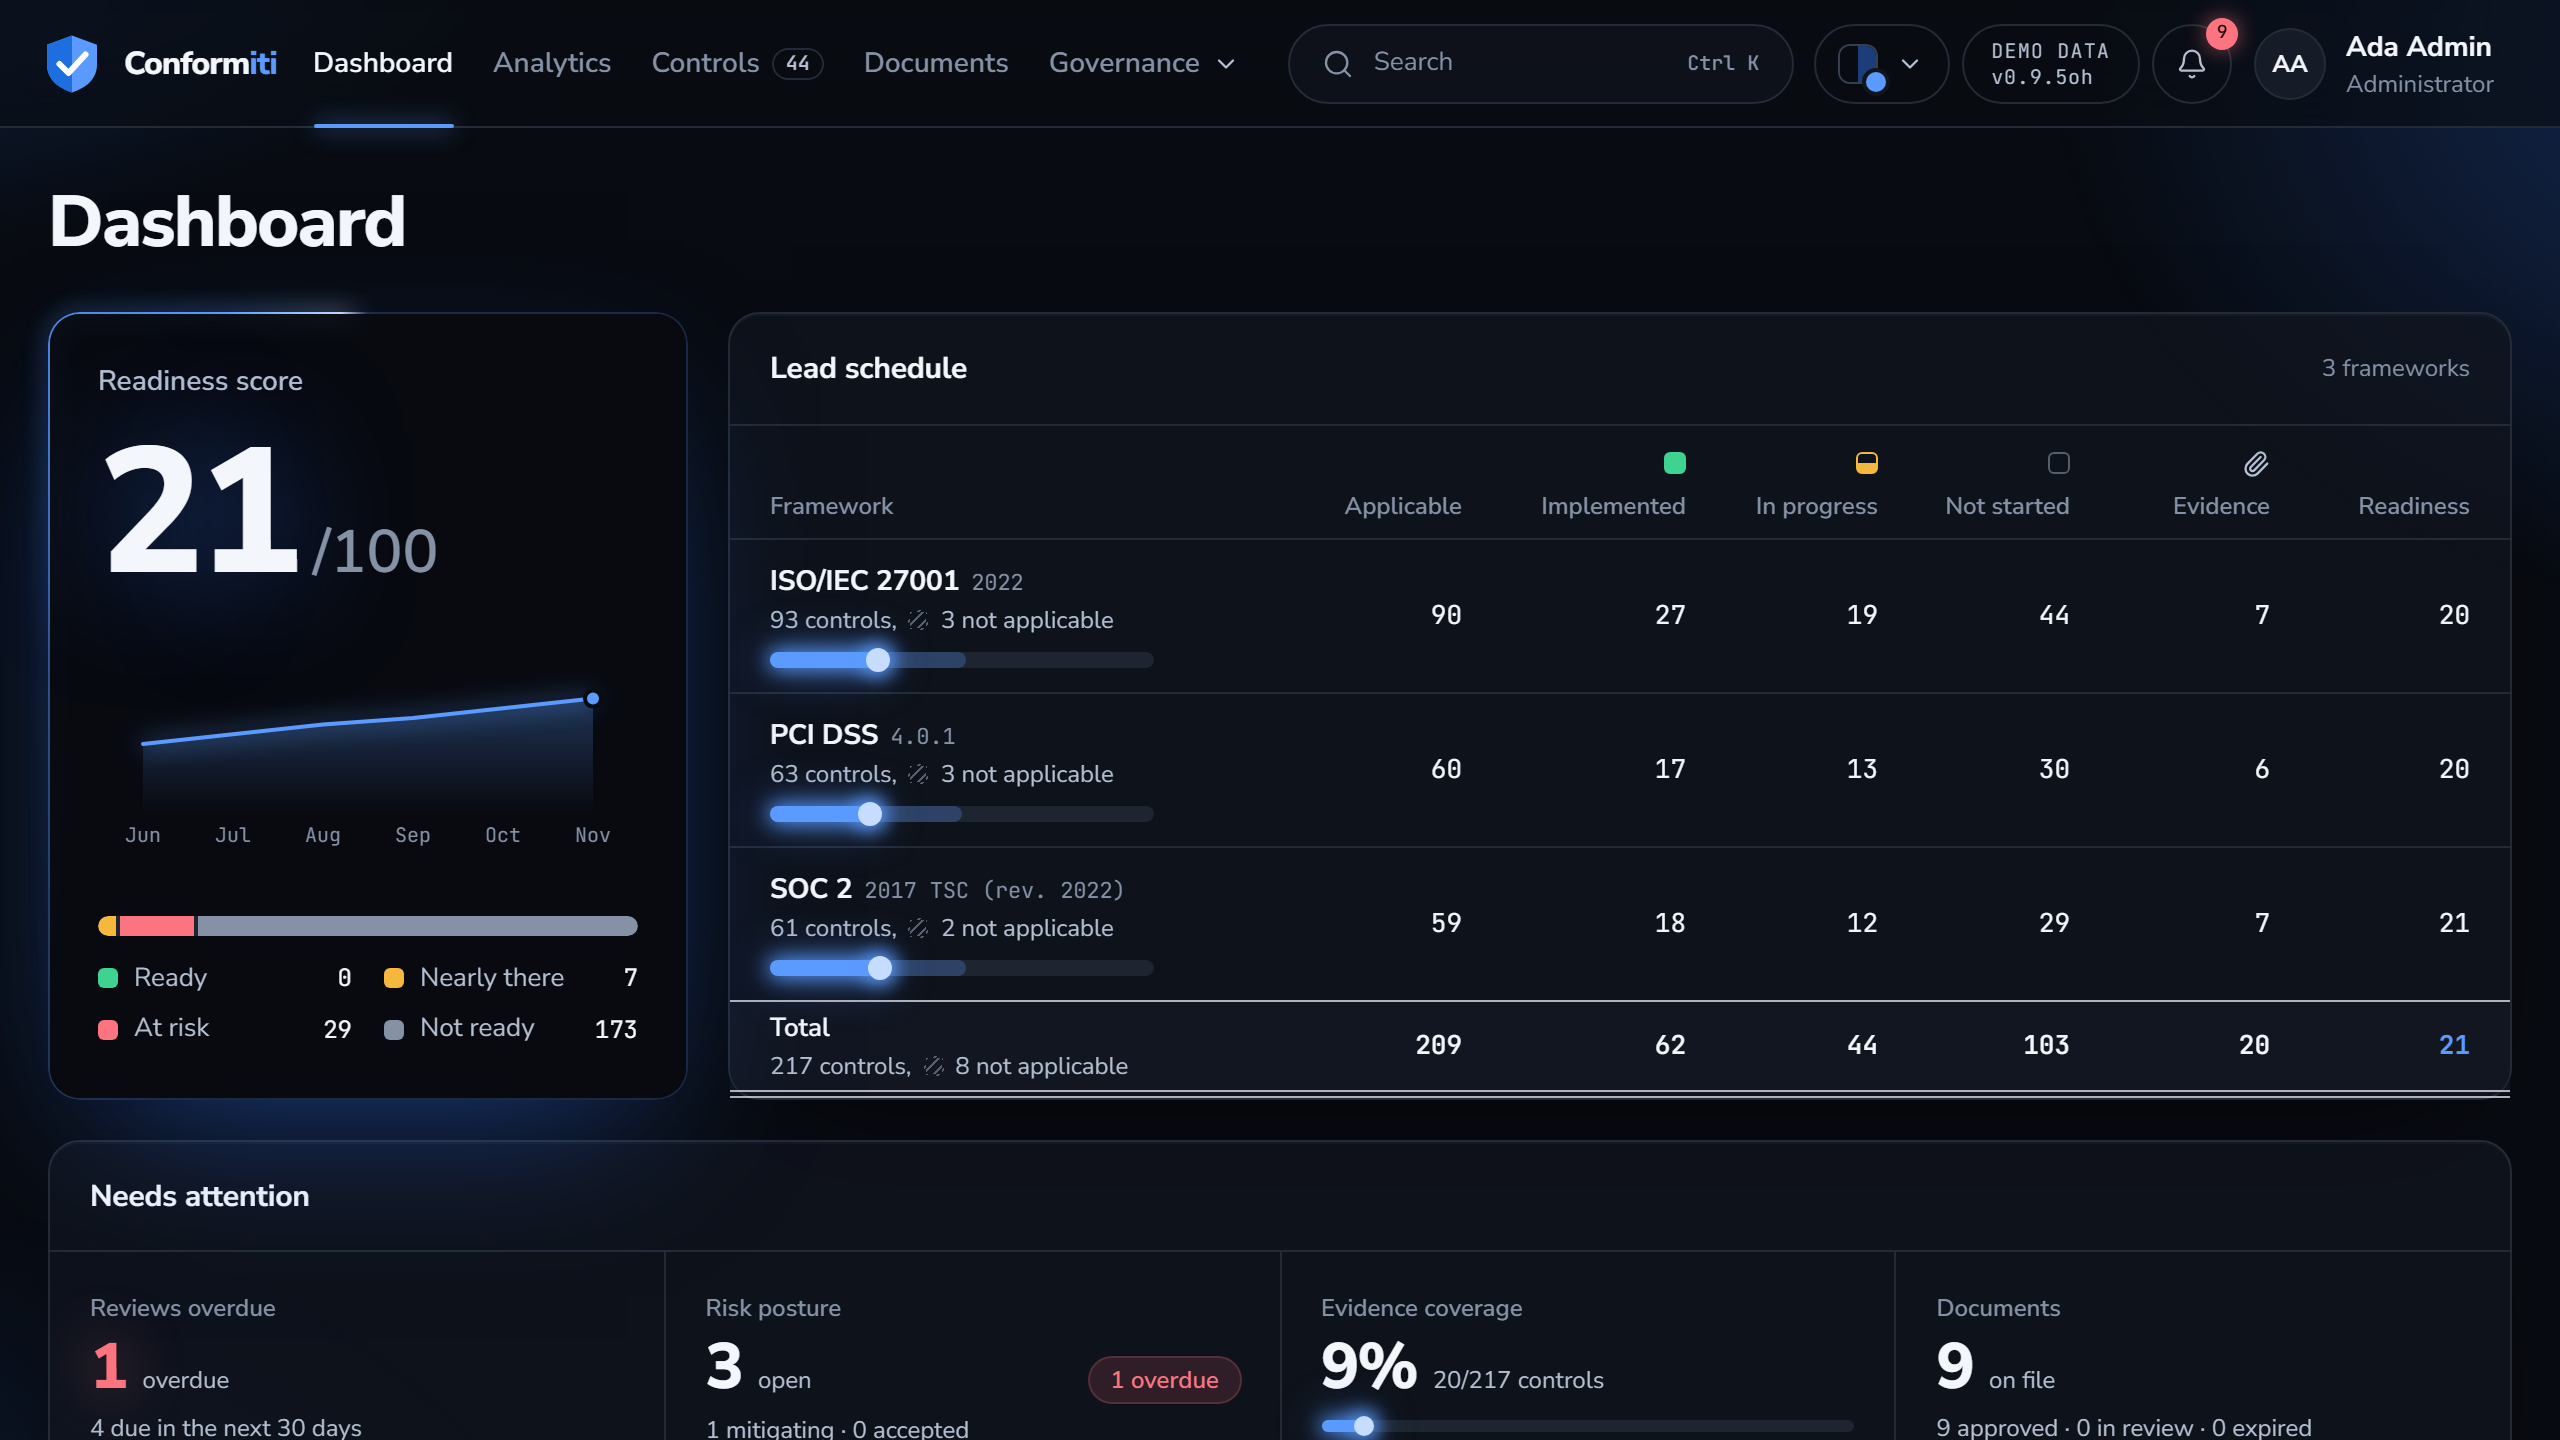
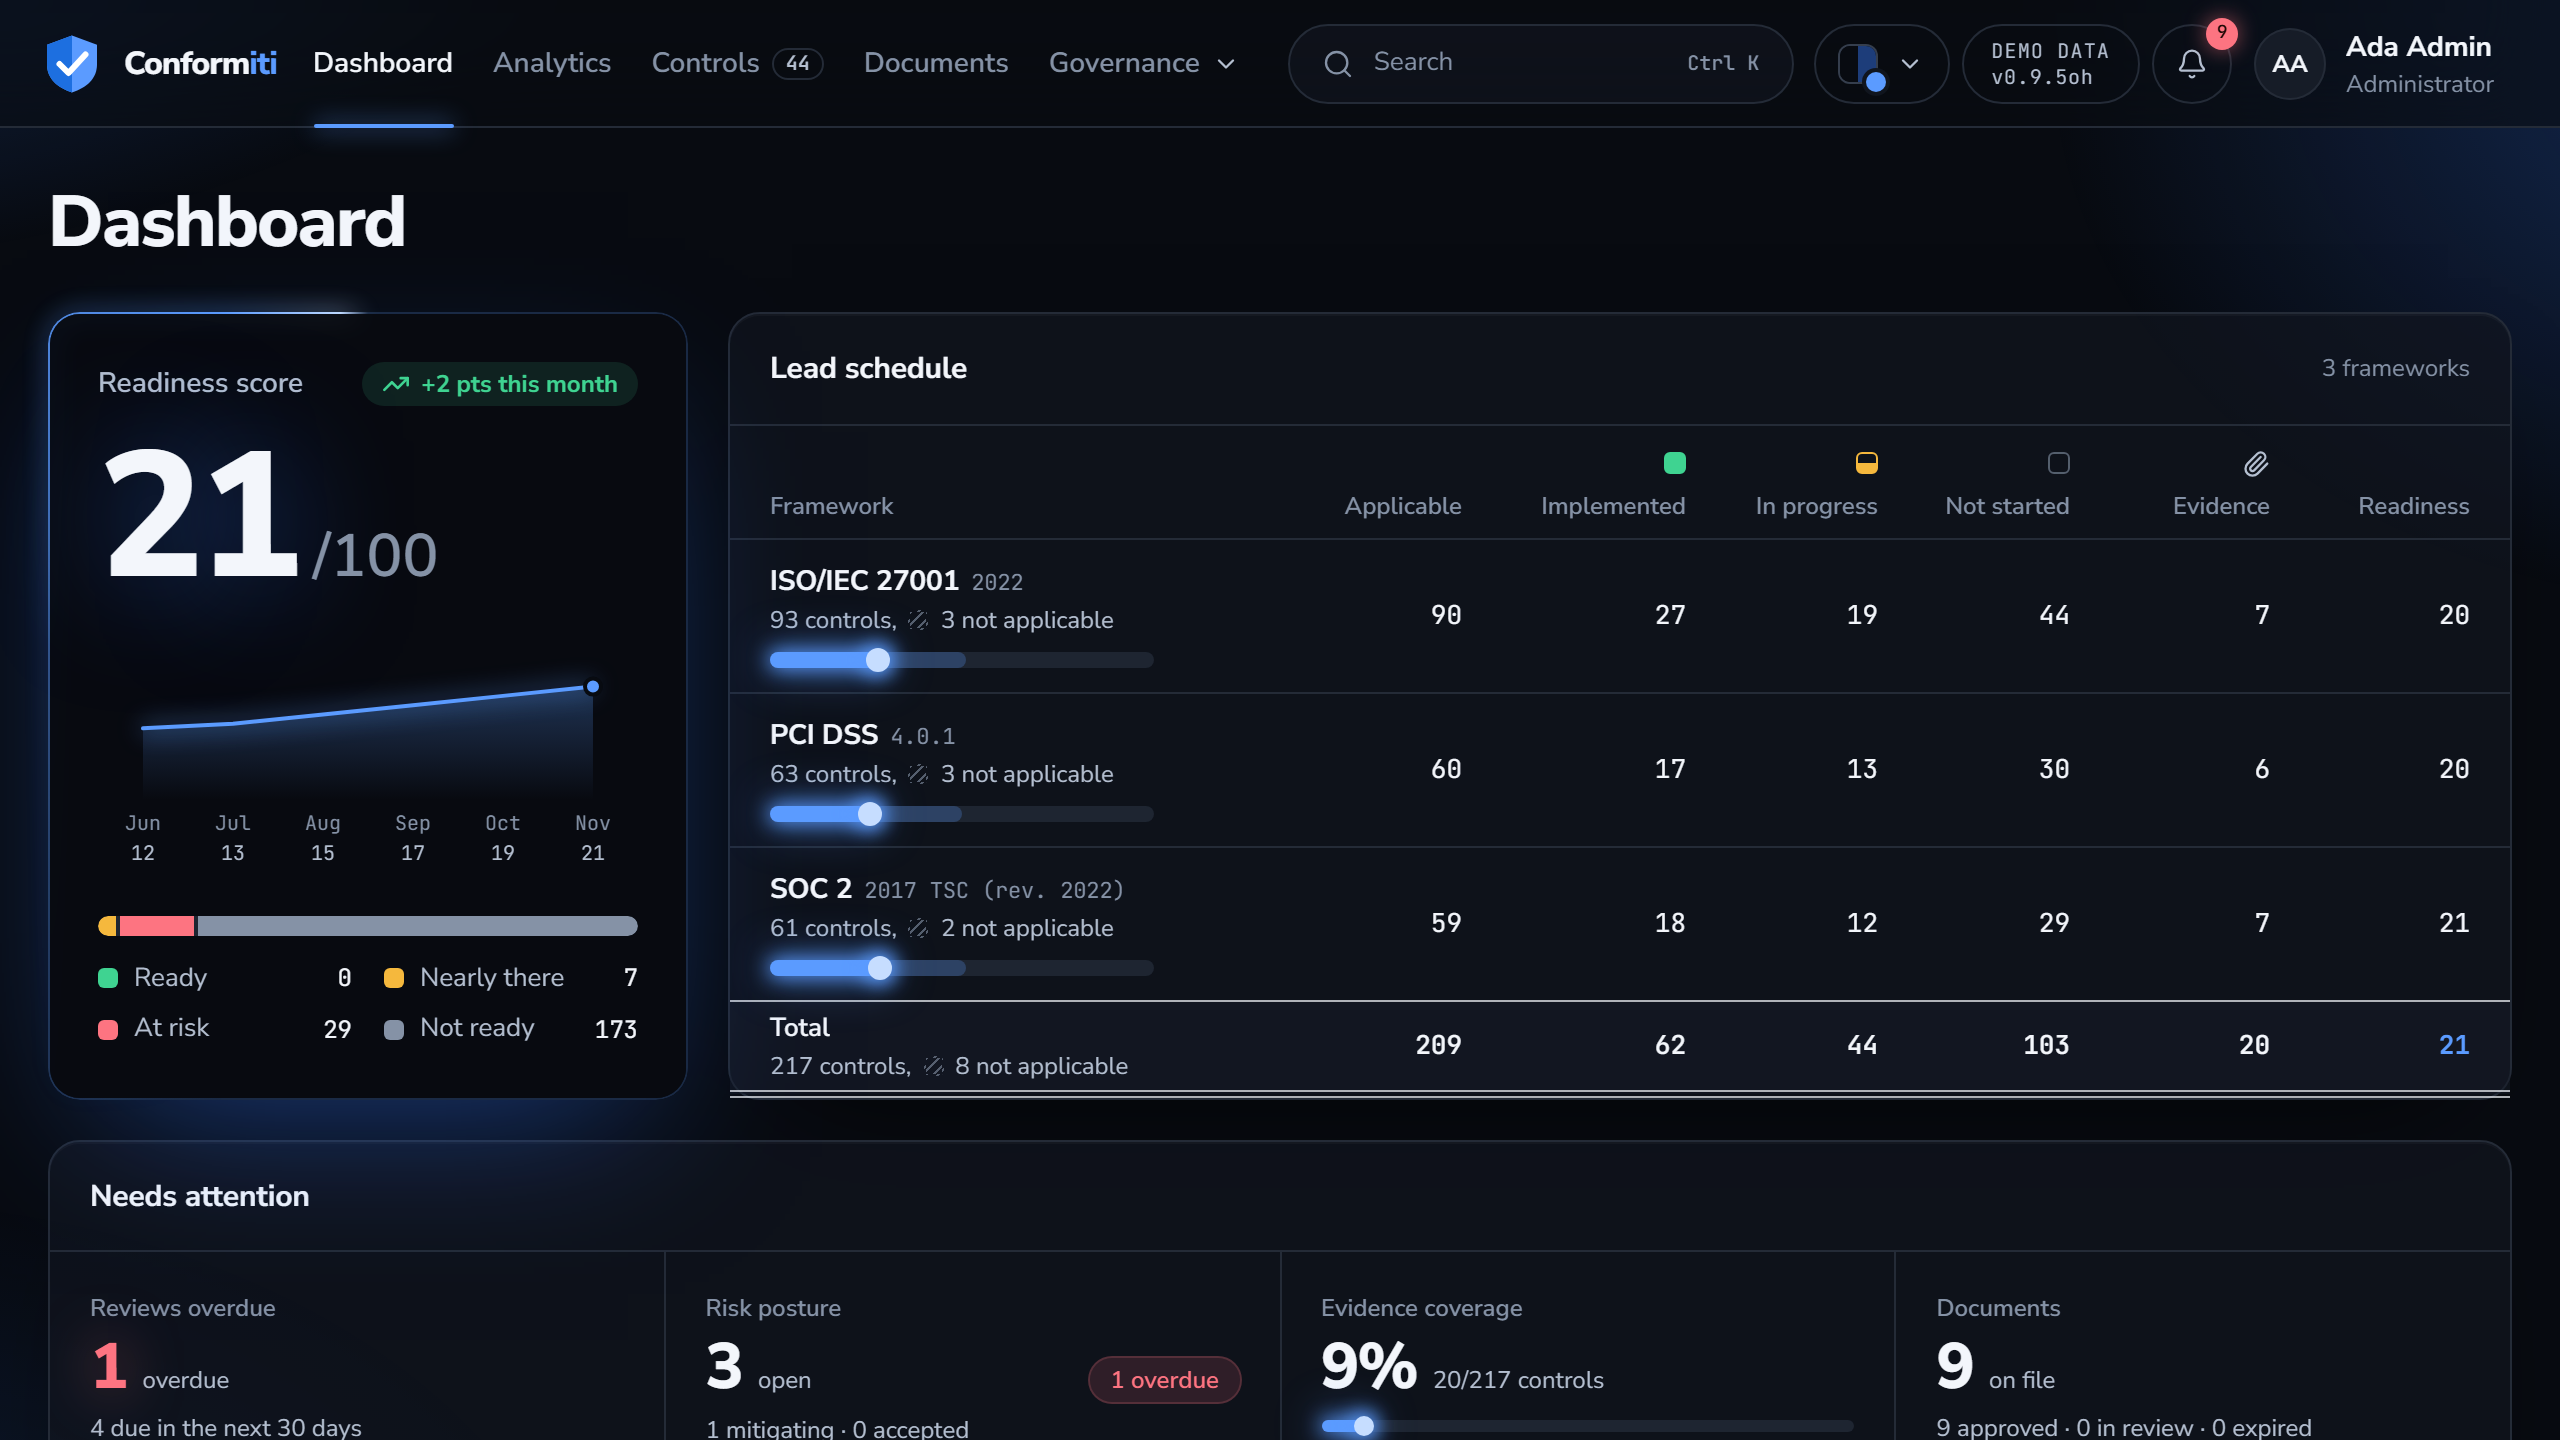
Plot the readiness trend in the figure the card shows
While fewer than two months had stored a score, the trend drew the share of
controls marked implemented under a score out of 100, with nothing on screen
to say so, and the demo back-filled its five months without a score, so the
demo always showed the other measure. The line now plots the card's own
figure from the months that recorded it, shows "No history yet" until there
are two, and prints each month's figure under its name. The demo back-fills
its months with a score. Part of 0.9.5oh; the README dashboard picture is
retaken.

diff --git a/frontend/src/components/charts/TrendLine.jsx b/frontend/src/components/charts/TrendLine.jsx
@@ -7,8 +7,9 @@ import { toneVar } from "../../utils/tone.js";
 const FIRST_WIDTH = 320;
 
 /** points: [{label, value}]. The graphic is drawn in the pixels it occupies, so a dot stays round, and each label
- * sits in the same column as its dot. The spoken name always carries the values. */
-export function TrendLine({ points, tone = "accent", height = 96, className, ariaLabel }) {
+ * sits in the same column as its dot. The spoken name always carries the values; showValues also prints each one,
+ * with its unit, under its label. */
+export function TrendLine({ points, tone = "accent", height = 96, className, ariaLabel, showValues = false, unit = "" }) {
   const fillId = `trend-fill-${useId().replace(/:/g, "")}`;
   const box = useRef(null);
   const [w, setW] = useState(FIRST_WIDTH);
@@ -17,7 +18,7 @@ export function TrendLine({ points, tone = "accent", height = 96, className, ari
   const pts = points && points.length ? points : [];
   const max = Math.max(...pts.map((p) => p.value), 1) * 1.15;
   const cell = w / (pts.length || 1);
-  const spoken = [ariaLabel, pts.map((p) => `${p.label} ${p.value}`).join(", ")].filter(Boolean).join(": ") || "No data";
+  const spoken = [ariaLabel, pts.map((p) => `${p.label} ${p.value}${unit}`).join(", ")].filter(Boolean).join(": ") || "No data";
 
   useLayoutEffect(() => {
     const el = box.current;
@@ -93,6 +94,7 @@ export function TrendLine({ points, tone = "accent", height = 96, className, ari
         {pts.map((p, i) => (
           <span key={`${p.label}-${i}`} className="whitespace-nowrap text-center font-mono text-[10px] text-faint">
             {p.label}
+            {showValues ? <span className="tabular block text-muted">{`${p.value}${unit}`}</span> : null}
           </span>
         ))}
       </div>

diff --git a/frontend/src/pages/Dashboard.jsx b/frontend/src/pages/Dashboard.jsx
@@ -86,13 +86,14 @@ export default function Dashboard({ me }) {
   }, [controls]);
   const scored = readiness?.score !== null && readiness?.score !== undefined;
   const hero = scored ? readiness.score : readiness?.pct;
+  // The line plots the figure the card shows, from the months that recorded it: a month saved before scores were
+  // stored is left out, never drawn in the other measure.
   const trendPoints = useMemo(() => {
-    const points = readiness?.trend || [];
-    const withScore = points.filter((p) => p.score !== null && p.score !== undefined);
-    return withScore.length >= 2
-      ? withScore.map((p) => ({ label: p.label, value: p.score }))
-      : points.map((p) => ({ label: p.label, value: p.pct }));
-  }, [readiness]);
+    const key = scored ? "score" : "pct";
+    return (readiness?.trend || [])
+      .filter((p) => p[key] !== null && p[key] !== undefined)
+      .map((p) => ({ label: p.label, value: p[key] }));
+  }, [readiness, scored]);
   const delta = scored ? readiness?.score_delta_pts : readiness?.delta_pts;
   const deltaBadge = delta != null ? monthDelta(delta) : null;
   const bandSegments = useMemo(() => {
@@ -161,6 +162,8 @@ export default function Dashboard({ me }) {
                       <TrendLine
                         points={trendPoints}
                         height={72}
+                        showValues
+                        unit={scored ? "" : "%"}
                         ariaLabel={`Readiness trend over the last ${trendPoints.length} months`}
                       />
                     ) : (

diff --git a/backend/accounts/management/commands/bootstrap_demo.py b/backend/accounts/management/commands/bootstrap_demo.py
@@ -1013,9 +1013,10 @@ class Command(BaseCommand):
                 detail=f"Rows the demo seed created (remove_demo_data deletes these): {', '.join(map(str, pks))}")
 
     def _history(self):
-        """Record today's readiness point and, on a first seed, back-fill five monthly ones. Never into a trend that has
-        a point before today or a workspace the demo was retired from: remove_demo_data could not reach months dated
-        before a revival, and invented months would stay in real history."""
+        """Record today's readiness point and, on a first seed, back-fill five monthly ones, each with a score: the
+        dashboard's trend plots only months that stored one. Never into a trend that has a point before today or a
+        workspace the demo was retired from: remove_demo_data could not reach months dated before a revival, and
+        invented months would stay in real history."""
         from dateutil.relativedelta import relativedelta
 
         from analytics.models import ReadinessSnapshot
@@ -1042,6 +1043,7 @@ class Command(BaseCommand):
                 with_evidence=int(round(now.with_evidence * factor)),
                 evidence_links=int(round(now.evidence_links * factor)),
                 documents_overdue=0, risks_open=now.risks_open,
+                score=None if now.score is None else int(round(now.score * factor)),
             ))
             made += 1
         self.stdout.write(f"  Readiness history: {made} monthly points + today ({now.pct}%)")

diff --git a/backend/accounts/tests_demo.py b/backend/accounts/tests_demo.py
@@ -212,6 +212,16 @@ class DemoRetirementTests(TestCase):
         self.assertNotIn("will be", out)
         self.assertNotIn("would", out)
 
+    def test_the_back_filled_months_carry_a_score(self):
+        """The dashboard's trend plots only months that stored a score, so the demo's five back-filled months need one
+        (rising to today's) or its trend would show no history."""
+        from analytics.snapshots import trend
+
+        scores = [p["score"] for p in trend()["points"]]
+        self.assertEqual(len(scores), 6)
+        self.assertNotIn(None, scores)
+        self.assertEqual(scores, sorted(scores))
+
     @staticmethod
     def statuses():
         from collections import Counter

diff --git a/CHANGELOG.md b/CHANGELOG.md
@@ -20,6 +20,9 @@ The interface takes the Conformiti theme: the product is lit from behind, its pa
 - **Conformiti** (dark) is the new default theme pack, with **Conformiti Light** beside it. A pack chosen before stays chosen: Audit Ledger, Nimbus, Ledger Dark and Obsidian are still offered and still flat.
 - The typefaces are Nunito Sans and JetBrains Mono, bundled with the app in `frontend/src/styles/fonts` with their OFL-1.1 licences. The installation serves them itself: nothing is fetched from a third party, and the shipped CSP (`font-src 'self'`) is unchanged.
 
+**Fixed.**
+- The dashboard's readiness trend could plot a different figure from the score above it: while fewer than two months had stored a score it drew the share of applicable controls marked implemented, with nothing on screen to say so, and the demo's five back-filled months had no score. The trend now plots the card's own figure from the months that recorded it, shows *No history yet* until there are two, and prints each month's figure under its name. The demo back-fills its months with a score; a history saved before scores were stored starts at its first month with one.
+
 **Changed.**
 - Two theme packs, Conformiti and Conformiti Light. Soft light in the accent colour comes in from the edges of the window behind translucent panels. The readiness card, the selected audit package and the sign-in card have a lit edge with light running round it; progress lines glow where they are filled and grow in when a page opens; the current tab's underline glows. In Conformiti Light the status colours and the default accent are the design's, moved toward the ink only as far as 4.5:1 as small text on their own wash needs.
 - Page headings, panel titles, buttons and badges take the new type. Page and dialog buttons are set in small capitals; small labels are in sentence case rather than mono capitals; a control's status badge carries its status mark (solid, half filled, outline, hatched) instead of a dot.

diff --git a/GETTING_STARTED.md b/GETTING_STARTED.md
@@ -102,10 +102,10 @@ the **Governance** menu.
 ### 1 · Dashboard
 ✓ "Readiness score" out of 100 (the mean score of the applicable controls:
 implementation, an owner, evidence and its freshness, a test, less open
-risks), a trend line
-with one point per month (the demo back-fills five months; an installation
-without it shows the note *History builds from daily snapshots* until a
-second month is recorded) and a bar of readiness bands (Ready, Nearly there,
+risks), a trend line of that score
+with one point per month and each month's figure under its name (the demo
+back-fills five months; an installation without it shows *No history yet*
+until a second month has a score) and a bar of readiness bands (Ready, Nearly there,
 At risk, Not ready). ✓ Beside it the **lead schedule**: a row for each of
 the three frameworks with its controls by status, *Evidence* and
 *Readiness* (that framework's own score), and a **Total** row whose
